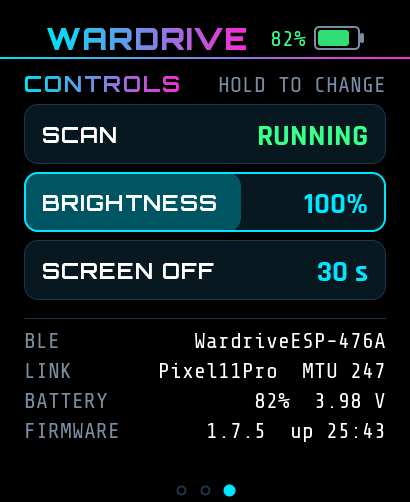
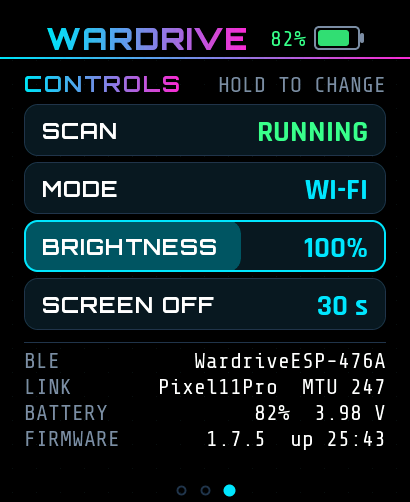
Watch: MODE button (Wi-Fi -> Bluetooth -> capture)
- Controls page gets a fourth hold-to-press button that cycles the scan mode
  with the app's own commands (bt on / cap on / cap off); enabled only while a
  host listens, since every link resets the mode to Wi-Fi.
- lcd_set_scan_toggle -> lcd_set_scan(fn(action)): one callback for SCAN
  (pause/resume) and MODE (next mode).
- Buttons 52 px, info rows tightened to stay inside the 110 px corner curve.
- Verified on hardware: watch label and Wardrive Go (Android) follow each hold;
  the app sends no mode commands back. docs: verification #32-35, previews.

diff --git a/firmware/main/lcd_draw.c b/firmware/main/lcd_draw.c
@@ -1010,8 +1010,8 @@ static void mini_sd_sent(const lcd_frame_t *f) {
 #define W_TILE_H 70
 #define W_BTN_X WM
 #define W_BTN_Y0 104
-#define W_BTN_H 60
-#define W_BTN_GAP 8
+#define W_BTN_H 52
+#define W_BTN_GAP 6
 #define W_ROW_Y0 104             // networks page: first row, row pitch, row height
 #define W_ROW_PITCH 70
 #define W_ROW_H 64
@@ -1259,8 +1259,8 @@ static void w_button(const lcd_frame_t *f, int b, const char *label, const char 
     rrect(W_BTN_X, y, w, W_BTN_H, 14, C_PANEL, 16);
     if (held && enabled && f->hold_pct) rrect(W_BTN_X, y, w * f->hold_pct / 100, W_BTN_H, 14, C_CYAN, 5);
     rrect_line(W_BTN_X, y, w, W_BTN_H, 14, held ? 2 : 1, edge, 16);
-    text_ex(&wfont_title, W_BTN_X + 18, y + 39, label, 1, enabled ? C_WHITE : C_DIM, enabled ? C_WHITE : C_DIM, SOLID, 16);
-    text_r(&wfont_body, W - W_BTN_X - 18, y + 41, value, enabled ? vc : C_DIM);
+    text_ex(&wfont_title, W_BTN_X + 18, y + 35, label, 1, enabled ? C_WHITE : C_DIM, enabled ? C_WHITE : C_DIM, SOLID, 16);
+    text_r(&wfont_body, W - W_BTN_X - 18, y + 37, value, enabled ? vc : C_DIM);
 }
 
 static void w_info(int y, const char *label, const char *value) {
@@ -1278,23 +1278,26 @@ static void w_controls(const lcd_frame_t *f) {
     char b[40];
     const char *sv = st->scanning ? "RUNNING" : st->can_scan ? "PAUSED" : (st->usb || st->ble) ? "OPEN THE APP" : "NEEDS PHONE";
     w_button(f, LCD_BTN_SCAN, "SCAN", sv, st->scanning ? C_GREEN : C_AMBER, st->scanning || st->can_scan);
+    const char *mv = !strcmp(st->mode, "BT") ? "BLUETOOTH" : !strcmp(st->mode, "CAP") ? "CAPTURE" : "WI-FI";
+    uint16_t mc = !strcmp(st->mode, "BT") ? C_BLUE : !strcmp(st->mode, "CAP") ? C_MAG : C_CYAN;
+    w_button(f, LCD_BTN_MODE, "MODE", mv, mc, st->can_scan);
     snprintf(b, sizeof(b), "%u%%", f->bright_pct);
     w_button(f, LCD_BTN_BRIGHT, "BRIGHTNESS", b, C_CYAN, true);
     snprintf(b, sizeof(b), "%u s", f->sleep_s);
     w_button(f, LCD_BTN_SLEEP, "SCREEN OFF", b, C_CYAN, true);
-    hgrad(WM, 318, W - 2 * WM, 1, C_EDGE, C_EDGE);
-    w_info(348, "BLE", st->ble_name[0] ? st->ble_name : "--");
+    hgrad(WM, 342, W - 2 * WM, 1, C_EDGE, C_EDGE);
+    w_info(368, "BLE", st->ble_name[0] ? st->ble_name : "--");
     if (st->usb) snprintf(b, sizeof(b), "USB host");
     else if (st->ble) snprintf(b, sizeof(b), "%s  MTU %u", st->holder[0] ? st->holder : "phone", st->mtu);
     else snprintf(b, sizeof(b), "advertising");
-    w_info(378, "LINK", b);
+    w_info(394, "LINK", b);
     if (st->batt_pct >= 0) snprintf(b, sizeof(b), "%d%%  %d.%02d V", st->batt_pct, st->batt_mv / 1000, st->batt_mv % 1000 / 10);
     else snprintf(b, sizeof(b), "--");
-    w_info(408, "BATTERY", b);
+    w_info(420, "BATTERY", b);
     char up[12], ver[40];
     w_clock(up, sizeof(up), (f->now - f->t0) / 1000);
     snprintf(ver, sizeof(ver), "%s  up %s", f->version, up);   // one row: an uptime row would sit inside the corner curve
-    w_info(438, "FIRMWARE", ver);
+    w_info(446, "FIRMWARE", ver);
     w_dots(f);
 }
 

diff --git a/firmware/main/lcd.c b/firmware/main/lcd.c
@@ -169,7 +169,7 @@ static const uint16_t SLEEP_STEPS[]  = { 15, 30, 60, 120 };   // seconds without
 #define NVS_NS        "iosesp"
 #define NVS_BRIGHT    "scrbright"
 #define NVS_SLEEP     "scrsleep"
-static lcd_scan_toggle_fn s_scan_toggle;
+static lcd_scan_fn s_scan;
 static gest_t s_gest;
 static bool s_wake_finger;            // the finger that woke the panel: ignored until it lifts
 static uint8_t s_page, s_net_first;
@@ -552,12 +552,17 @@ static void settings_save(void) {
     nvs_close(h);
 }
 
-/// A button pressed (held): what it does. The scan button only acts while a scan runs or a host could start one.
+/// A button pressed (held): what it does. SCAN acts while a scan runs or a host listens; MODE only while a host listens
+/// (the mode resets to Wi-Fi on every link, so one picked with nobody listening would be thrown away).
 static void watch_press(int btn) {
     if (btn == LCD_BTN_SCAN) {
-        if (!s_scan_toggle || !(s_frame.st.scanning || s_frame.st.can_scan)) return;
+        if (!s_scan || !(s_frame.st.scanning || s_frame.st.can_scan)) return;
         ESP_LOGI(TAG, "watch: scan %s", s_frame.st.scanning ? "paused" : "resumed");
-        s_scan_toggle();
+        s_scan(LCD_SCAN_PAUSE_RESUME);
+    } else if (btn == LCD_BTN_MODE) {
+        if (!s_scan || !s_frame.st.can_scan) return;
+        ESP_LOGI(TAG, "watch: mode after %s", s_frame.st.mode);
+        s_scan(LCD_SCAN_NEXT_MODE);
     } else if (btn == LCD_BTN_BRIGHT) {
         s_bright_pct = (uint8_t)next_step(BRIGHT_STEPS, sizeof(BRIGHT_STEPS) / sizeof(*BRIGHT_STEPS), s_bright_pct);
         settings_save();
@@ -756,9 +761,9 @@ void lcd_alert(const char *label, uint32_t ms, bool soft, uint32_t rgb, bool pol
 
 void lcd_set_stealth(bool on) { s_stealth = on; }
 void lcd_set_touch(lcd_touch_fn fn) { s_touch = fn; }
-void lcd_set_scan_toggle(lcd_scan_toggle_fn fn) {
+void lcd_set_scan(lcd_scan_fn fn) {
 #if CONFIG_IDF_TARGET_ESP32S3
-    s_scan_toggle = fn;
+    s_scan = fn;
 #else
     (void)fn;
 #endif

diff --git a/firmware/main/wardrive_bridge.c b/firmware/main/wardrive_bridge.c
@@ -3345,7 +3345,7 @@ static void board_caps_set(const board_def_t *b) {
 }
 
 #if CONFIG_IDF_TARGET_ESP32S3
-static void watch_scan_toggle(void);   // the watch's scan button (after run_command)
+static void watch_scan(lcd_scan_action_t action);   // the watch's SCAN and MODE buttons (after run_command)
 #endif
 
 // Boot: the battery gauge (if any), the board's identity, and its LED ring when the identity names one.
@@ -3403,7 +3403,7 @@ static void board_init(void) {
     if (s_board == BOARD_WAVESHARE_AMOLED_206) {
         watch_battery_init();
         if (watch_touch_init()) lcd_set_touch(watch_touch_read);
-        lcd_set_scan_toggle(watch_scan_toggle);
+        lcd_set_scan(watch_scan);
         if (lcd_open_amoled()) lcd_start(b->name, FW_VERSION, lcd_fill);
     }
 #endif
@@ -3808,10 +3808,13 @@ static void run_command(const uint8_t *text, size_t len, uint8_t src) {
 }
 
 #if CONFIG_IDF_TARGET_ESP32S3
-/// The watch's scan button: exactly the `stop` / `start` the app itself sends (run like any command, under the command
-/// lock), so the board, the app and the log all see an ordinary stop or start. Called on the screen task.
-static void watch_scan_toggle(void) {
-    const char *c = (s_streaming || s_bt_running || s_cap_running || s_csi_running) ? "stop" : "start";
+/// The watch's SCAN and MODE buttons: exactly the commands the app itself sends (run like any command, under the command
+/// lock), so the board, the app and the log all see an ordinary stop / start or mode change. Pause: `stop` / `start`.
+/// Next mode: Wi-Fi -> Bluetooth (`bt on`) -> capture (`cap on`) -> Wi-Fi (`cap off`). Called on the screen task.
+static void watch_scan(lcd_scan_action_t action) {
+    const char *c;
+    if (action == LCD_SCAN_NEXT_MODE) c = s_role == ROLE_WIFI ? "bt on" : s_role == ROLE_BT ? "cap on" : "cap off";
+    else c = (s_streaming || s_bt_running || s_cap_running || s_csi_running) ? "stop" : "start";
     run_command((const uint8_t *)c, strlen(c), SINK_BLE);
 }
 

diff --git a/firmware/main/lcd.h b/firmware/main/lcd.h
@@ -47,8 +47,10 @@ typedef struct {
 } lcd_status_t;
 
 typedef void (*lcd_fill_fn)(lcd_status_t *st);
-/// The watch's scan button: pause the scan when it runs, start it again when a host holds the board.
-typedef void (*lcd_scan_toggle_fn)(void);
+/// The watch's scan buttons: pause the scan when it runs (start it again when a host listens), or move the board to its
+/// next scan mode (Wi-Fi, Bluetooth, capture) with the same commands the app sends.
+typedef enum { LCD_SCAN_PAUSE_RESUME, LCD_SCAN_NEXT_MODE } lcd_scan_action_t;
+typedef void (*lcd_scan_fn)(lcd_scan_action_t action);
 
 /// Koko Marauder V8 check: only when a pin of its shared SPI bus already reads pulled up (input-only sense), reads the
 /// panel ID over SPI and keeps the bus when it is an ILI9341. Logs what it saw either way.
@@ -76,8 +78,8 @@ typedef bool (*lcd_touch_fn)(int *x, int *y);
 /// Hand the screen its touch input (the watch): pages, controls, and the panel going dark after its timeout without a
 /// touch, back on the next touch or alert. The scan and Bluetooth carry on either way.
 void lcd_set_touch(lcd_touch_fn fn);
-/// The watch's scan button calls this (on the screen task).
-void lcd_set_scan_toggle(lcd_scan_toggle_fn fn);
+/// The watch's SCAN and MODE buttons call this (on the screen task).
+void lcd_set_scan(lcd_scan_fn fn);
 /// The bus's microSD slot, once the ILI9341 screen runs and the slot's chip select read pulled up (Koko V8, AWOK Dual
 /// C5): its SPI host and chip select. False on every other board.
 bool lcd_sd_slot(int *host, int *cs);

diff --git a/firmware/main/lcd_draw.h b/firmware/main/lcd_draw.h
@@ -14,7 +14,7 @@
 
 // The watch: three pages, swiped left and right. Buttons on the controls page act on a hold (gesture.h).
 enum { LCD_PAGE_DASH = 0, LCD_PAGE_NETS, LCD_PAGE_CTRL, LCD_PAGES };
-enum { LCD_BTN_NONE = -1, LCD_BTN_SCAN = 0, LCD_BTN_BRIGHT, LCD_BTN_SLEEP, LCD_BTNS };
+enum { LCD_BTN_NONE = -1, LCD_BTN_SCAN = 0, LCD_BTN_MODE, LCD_BTN_BRIGHT, LCD_BTN_SLEEP, LCD_BTNS };
 #define LCD_NETS_ROWS 5                 // networks page: rows on screen; swipe up and down for more
 #define LCD_ACT_N 42                    // 14 × 2.4 GHz, then 28 × 5 GHz
 

diff --git a/docs/waveshare-verification.md b/docs/waveshare-verification.md
@@ -97,3 +97,15 @@ Same watch, phone and toolchain. Firmware: Phase 2–3 plus the native 410×502 
 | 29 | Drawing cost | pass | HW-LOG (5 s windows, dashboard): before, 25 frames per 5 s at 126–134 ms painting each; after (data once a second, touches and alerts at once), 5 frames per 5 s at 81–131 ms; 0–1 ms state, 1–5 ms panel I/O, 2–3 ms touch; display task stack ≥ 1.7 KB left |
 | 30 | Panel corners | pass | HW-EYE: a calibration screen of nested outlines showed the visible area's corners at ~110 px radius (90 cut, 110 whole). The layout keeps clear of that curve (`W_CORNER_R`); "nothing cut off" on the watch |
 | 31 | Layout previews | pass | AUTO/visual: `docs/previews/*.png` rendered by `tools/lcd_preview.c -DLCD_WATCH=1` from the firmware's own drawing code |
+
+## MODE button (2026-11-03)
+
+A spike first (throwaway build, reverted): the SCAN button cycled modes with the app's own commands. Wardrive Go
+accepted watch-initiated switches and sent no mode commands back over 90 s and three full cycles. Then the feature.
+
+| # | Check | Result | Evidence |
+|---|---|---|---|
+| 32 | All chips build | pass | BUILD: esp32s3 0x149c40 (31 % free); esp32c3, esp32c6, esp32c5 (CSI line removed) unchanged in size; warnings identical to untouched upstream |
+| 33 | MODE cycles Wi-Fi → Bluetooth → capture → Wi-Fi | pass | HW-LOG: `watch: mode after WIFI` → `cmd: 'bt on'` → `bluetooth scan started`; `after BT` → `cap on` → `capture started`; `after CAP` → `cap off` → `stream started`. HW-EYE: the MODE label and Wardrive Go (Android) both followed every hold |
+| 34 | The app doesn't override the watch's mode | pass (one phone, one board) | HW-LOG: no `bt off` / `cap off` / `wdstream … -wifi` from the app after any watch-initiated switch. Untested: iPhone, several boards linked at once |
+| 35 | Layout with four buttons | pass | AUTO/visual: `docs/previews/w5-controls-holding.png`, `w6-controls-no-phone.png` inside the measured 110 px corner curve; MODE dimmed while no host listens |

diff --git a/docs/waveshare-build-flash.md b/docs/waveshare-build-flash.md
@@ -21,7 +21,7 @@ idf.py -B build-esp32s3 -D SDKCONFIG=build-esp32s3/sdkconfig build
 ```
 
 Expected:
-- `wardrive_bridge.bin binary size 0x149b10 bytes … (31%) free`.
+- `wardrive_bridge.bin binary size 0x149c40 bytes … (31%) free`.
 - The same three `-Wunused-function` warnings the untouched upstream source has: `display.c text_c`,
   `wardrive_bridge.c led_apply`, `board_is_awok`.
 
